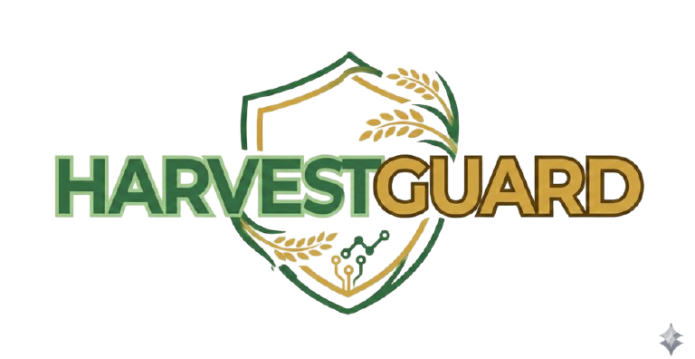
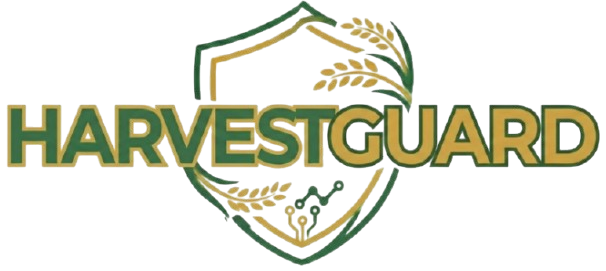
fixed the nav bar

Changed region(s): [[0.0, 0.0, 1.0, 0.9742], [0.9505, 0.9151, 0.9802, 1.0]]

diff --git a/src/components/HeroBanner.jsx b/src/components/HeroBanner.jsx
@@ -1,8 +1,6 @@
 import React from 'react';
 import { useLanguage } from '../context/LanguageContext';
 import { motion } from 'framer-motion';
-import logoEn from '../assets/harvest-en-removebg-preview.png';
-import logoBn from '../assets/harvest-bn-removebg-preview.png';
 import heroBg from '../assets/bg.png';
 
 export default function HeroBanner() {
@@ -30,11 +28,7 @@ export default function HeroBanner() {
             show: { transition: { staggerChildren: 0.12 } },
           }}
         >
-          <motion.div initial={{ opacity: 0, scale: 0.95 }} animate={{ opacity: 1, scale: 1 }} transition={{ duration: 0.35 }} className="">
-            <img src={isBn ? logoBn : logoEn} alt="Harvest logo" className="w-64 h-30 rounded-lg object-contain bg-white/0" />
-          </motion.div>
-
-          <motion.h1 className="mt-6 mb-5 font-extrabold text-4xl sm:text-5xl md:text-[48px] lg:text-[56px] leading-[1.03] tracking-[-0.8px] text-white" style={{ textShadow: '0 6px 18px rgba(3,10,6,0.35)' }} initial={{ opacity: 0, y: 18 }} whileInView={{ opacity: 1, y: 0 }} viewport={{ once: true }} transition={{ duration: 0.6 }}>
+          <motion.h1 className="mb-5 font-extrabold text-4xl sm:text-5xl md:text-[48px] lg:text-[56px] leading-[1.03] tracking-[-0.8px] text-white" style={{ textShadow: '0 6px 18px rgba(3,10,6,0.35)' }} initial={{ opacity: 0, y: 18 }} whileInView={{ opacity: 1, y: 0 }} viewport={{ once: true }} transition={{ duration: 0.6 }}>
             {isBn ? (
               <>
                 আপনার কৃষি যাত্রায়

diff --git a/src/components/Navbar.jsx b/src/components/Navbar.jsx
@@ -45,7 +45,7 @@ const Navbar = () => {
           <div className="flex items-center">
             <div className="flex items-center">
               <Link to="/" className="inline-block">
-                <img src={lang === 'en' ? logoEn : logoBn} alt="HarvestGuard" className="h-14 md:h-[90px] block" />
+                <img src={lang === 'en' ? logoEn : logoBn} alt="HarvestGuard" className="h-12 md:h-16 max-w-[140px] md:max-w-[180px] object-contain block" />
               </Link>
             </div>
           </div>
